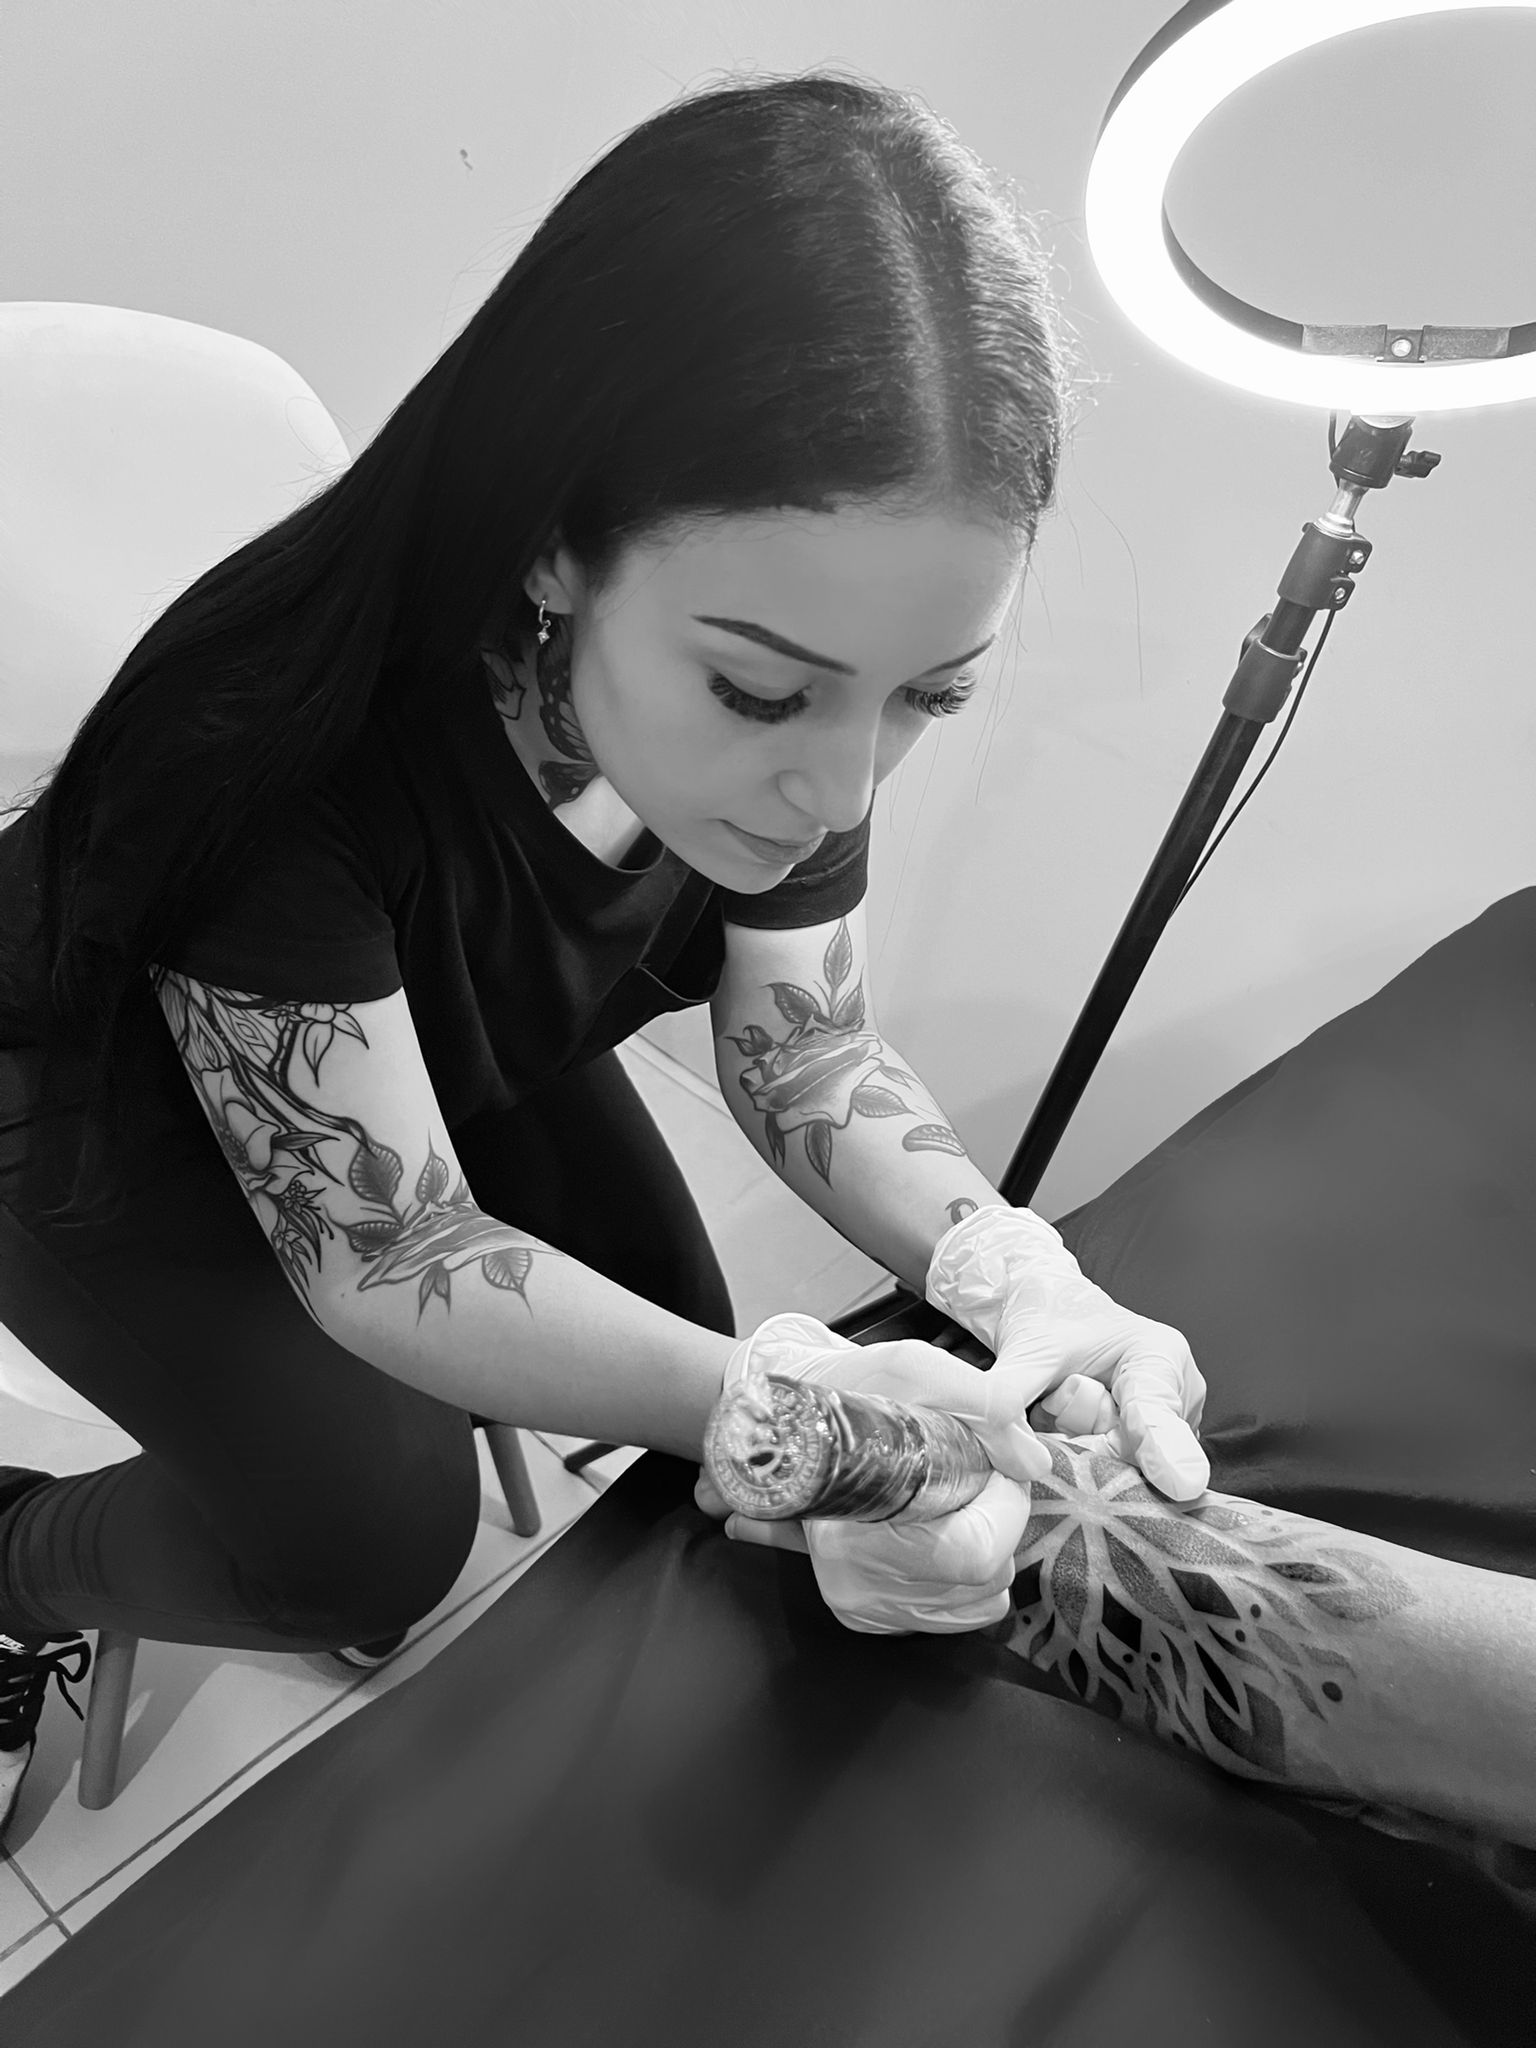
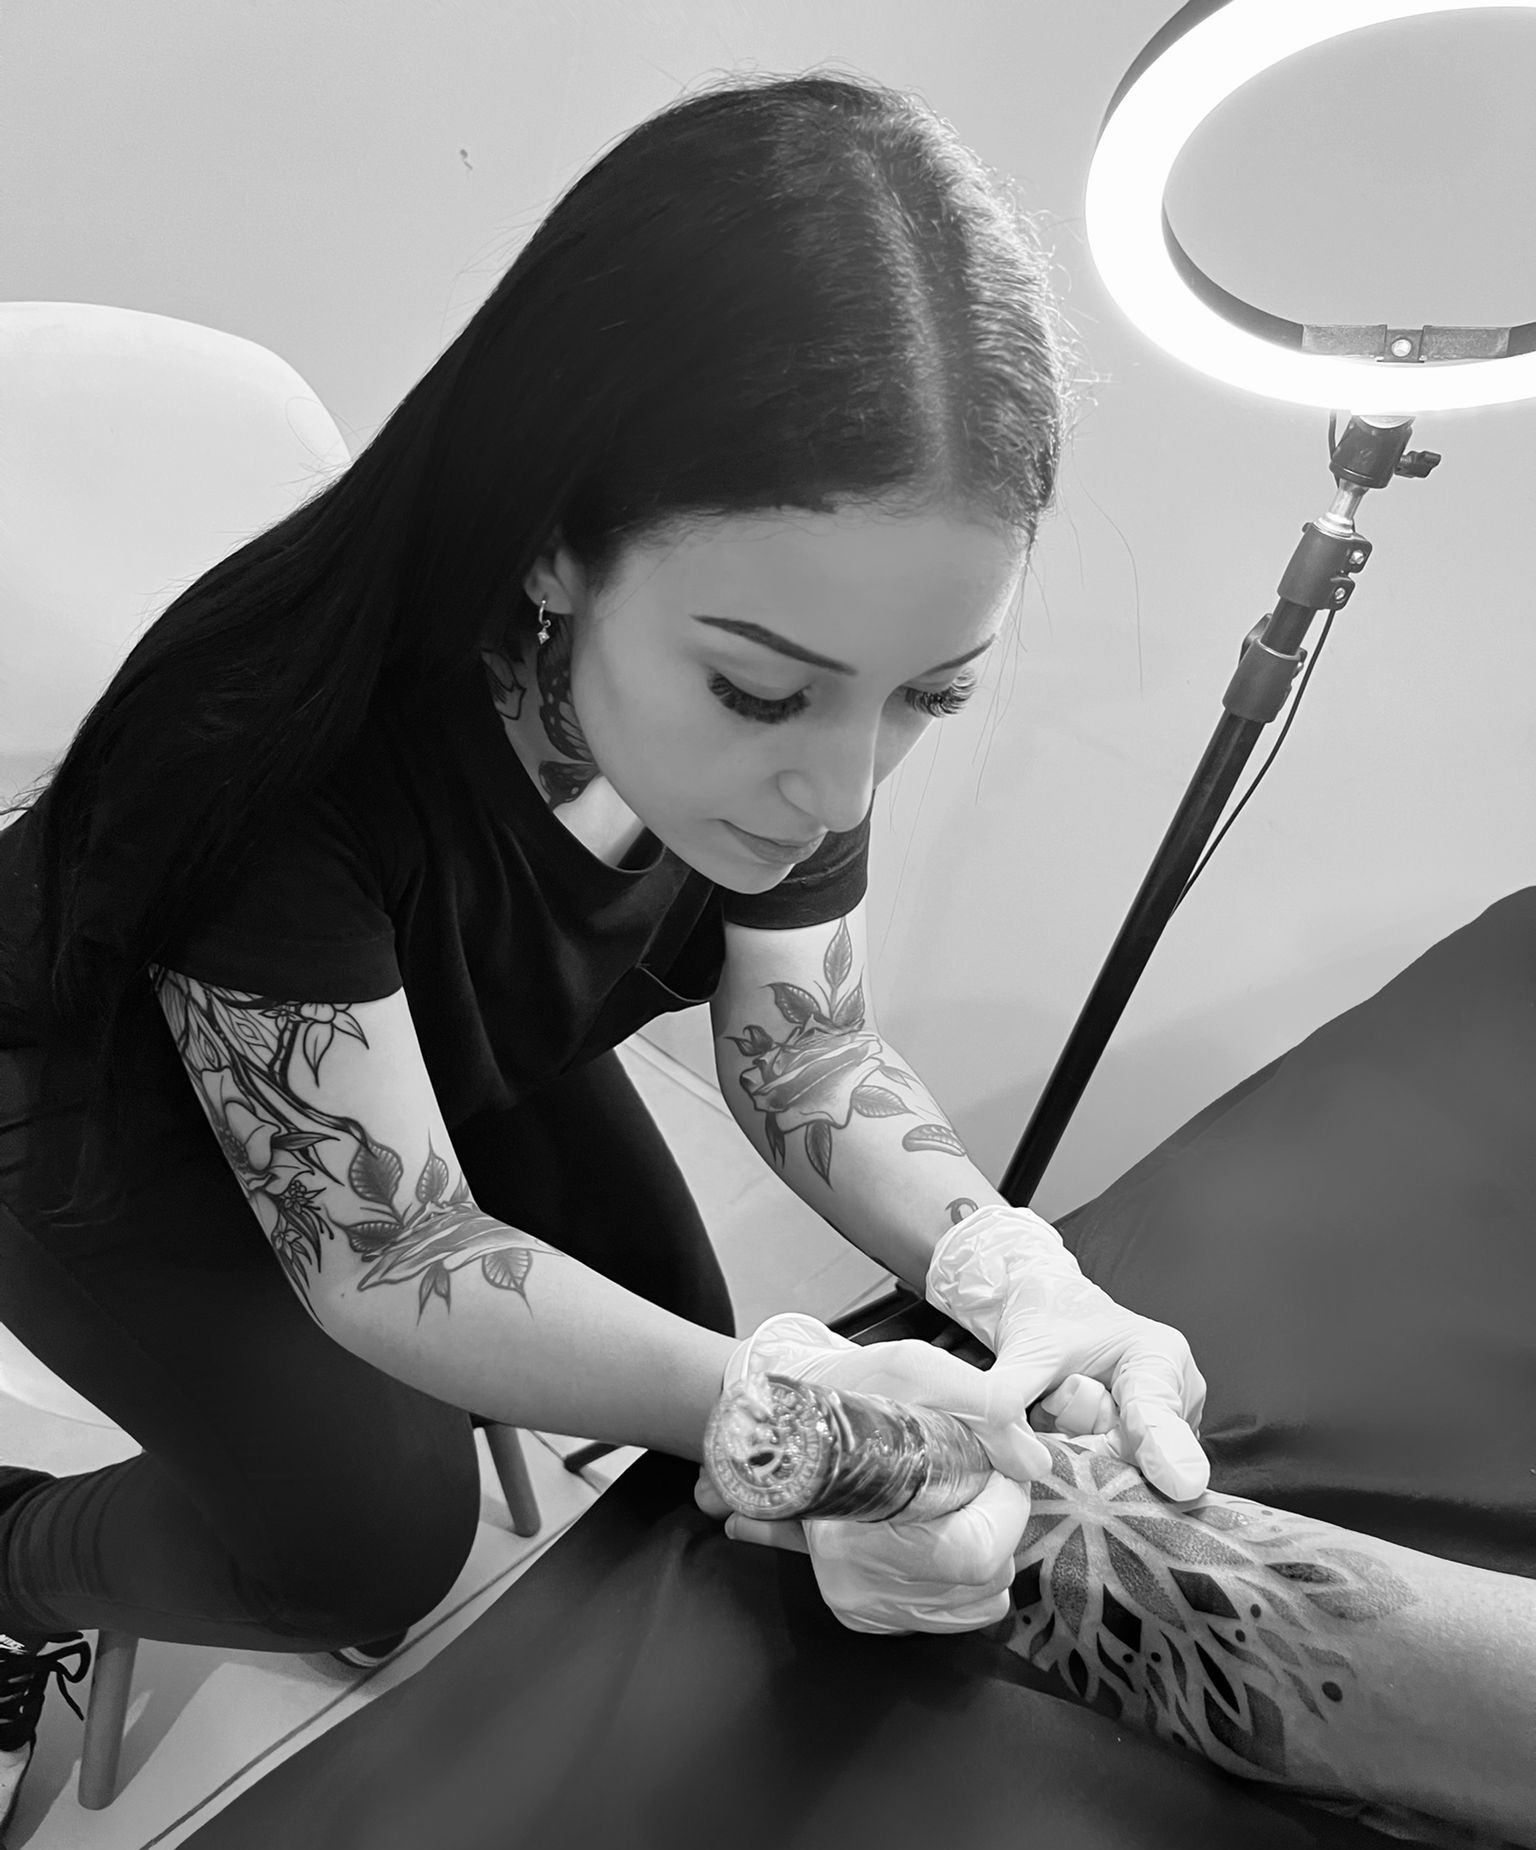
inicio

diff --git a/index.html b/index.html
@@ -15,7 +15,7 @@
     
     <header>
         <nav class="nav__header">
-            <img class="nav__logo" src="./img/logo - copia.png" alt="">
+            <img class="nav__logo" src="./img/logo-blanco.png" alt="">
         </nav>
     </header>
     <main>
@@ -27,22 +27,18 @@
         <aside class="menu__panel">
             <a href="#home" class="menu__items">Inicio</a>
             <a href="#about-us" class="menu__items">Nosotros</a>
-            <a href="#testimonials" class="menu__items">Testimonios</a>
             <a href="#gallery" class="menu__items">Galería</a>
             <a href="#contact" class="menu__items">Contacto</a>
             <a href="./pages/blog.html" class="menu__items">Blog</a>
         </aside>
         <div>
             <section id="home" class="home">
-                    <!-- <img class="hero__logo" src="./img/logo.png" alt="logo de camink tattoo"> -->
-                    <img class="hero__img" src="./img/hero.png" alt="Chica tatuando un brazo">
-                    <h3 class="subtitulo__seccion">-Expresa tu historia en la piel-</h3>
+                    <img class="hero__img" src="./img/hero.jpg" alt="Chica tatuando un brazo">
+                    <h3 class="subtitulo__seccion">Cuenta tu historia en la piel</h3>
             </section>
             <section id="about-us" class="about-us">
                 <h2 class="titulo__seccion">Nosotros</h2>
             </section>
-            <section id="testimonials" class="testimonials">
-                <h2 class="titulo__seccion">Testimonios</h2>
             </section>
             <section id="gallery" class="gallery">
                 <h2 class="titulo__seccion">Galería</h2>

diff --git a/styles/styles.css b/styles/styles.css
@@ -9,9 +9,9 @@
     margin: 0;
     padding: 0;
     box-sizing: border-box;
-    --main-color:#050505;
+    --main-color:#101010;
     --second-color:E8E9F3;
-    --main-color-panel:#050505ee;
+    --main-color-panel:#050505ff;
 }
 ul,ol{
     list-style-type: none;
@@ -24,7 +24,10 @@ html{
     scroll-behavior: smooth;
     scroll-snap-type: both mandatory;
     font-family: 'Manrope', sans-serif;
-    /* scroll-padding-top: 90px; */
+    scroll-padding-top: 90px;
+}
+body{
+    overflow: hidden;
 }
 .panel-btn{
     z-index: 9;
@@ -72,9 +75,9 @@ html{
     justify-content: space-evenly;
     text-align: center;
     align-items: center;
-    font-size: 2rem;
+    font-size: 2.5rem;
     width: 100%;
-    height: calc(100vh/6);
+    height: calc(100vh/5);
     border: none;
 }
 .menu__items:active{
@@ -101,9 +104,6 @@ section {
     font-weight: 200;
     font-style: italic;
 }
-header{
-    /* display: none; */
-}
 .nav__header{
     position: fixed;
     top: 0;
@@ -112,7 +112,7 @@ header{
     justify-content: center;
     background-color: var(--main-color);
     width: 100%;
-    clip-path: polygon(0 0, 100% 0%, 100% 81%, 0 52%);
+    clip-path: polygon(0 0, 100% 0%, 100% 69%, 0 80%);
 }
 .nav__logo{
     width: 100px;
@@ -121,7 +121,6 @@ header{
 .home{
     display: flex;
     flex-direction: column;
-    justify-content: space-around;
     align-items: center;
     object-fit: cover;
 }
@@ -130,6 +129,6 @@ header{
 }
 .hero__img{
     width: 100%;
-    height: 50%;
-    object-fit: cover;
+    padding-top: 50px;
+
 }
